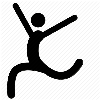
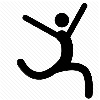
f

Changed region(s): [[0.06, 0.03, 0.93, 0.99]]

diff --git a/Lenny'z2/src/ControleurPersonnage.java b/Lenny'z2/src/ControleurPersonnage.java
@@ -15,13 +15,12 @@ public class ControleurPersonnage implements KeyListener{
 	@Override
 	public void keyPressed(KeyEvent arg0) {
 		// TODO Auto-generated method stub
-		System.out.println("ha");
 		this.vue.setState(Etat.SAUTE);
 	}
 
 	@Override
 	public void keyReleased(KeyEvent arg0) {
-		// TODO Auto-generated method stub
+		this.vue.setState(Etat.COURS);
 
 	}
 

diff --git a/Lenny'z2/src/VuePersonnage.java b/Lenny'z2/src/VuePersonnage.java
@@ -48,7 +48,7 @@ public class VuePersonnage {
 	public void sauter(){
 		ImageIcon iconeDeFond = new ImageIcon(getClass().getResource("/Images/Saut.png"));
 		this.imageDeFond = iconeDeFond.getImage();
-		g.drawImage(this.imageDeFond,100,300,null);
+		g.drawImage(this.imageDeFond,0,100,null);
 	}
 	
 	public void rouler(){
